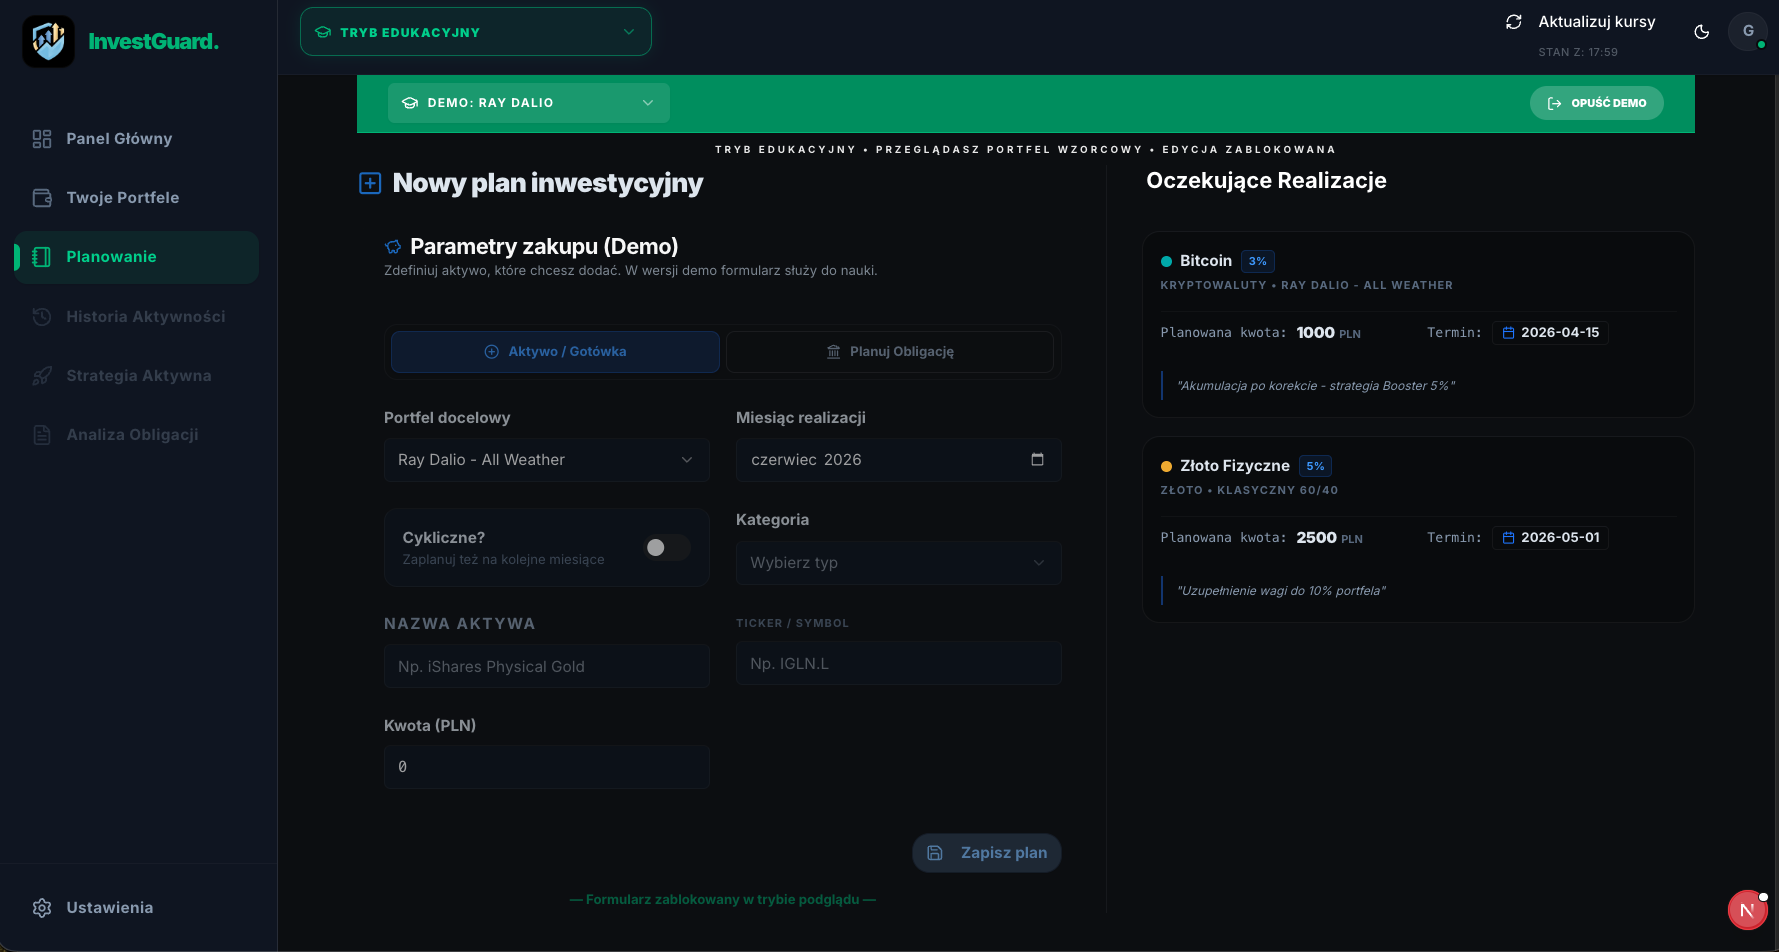
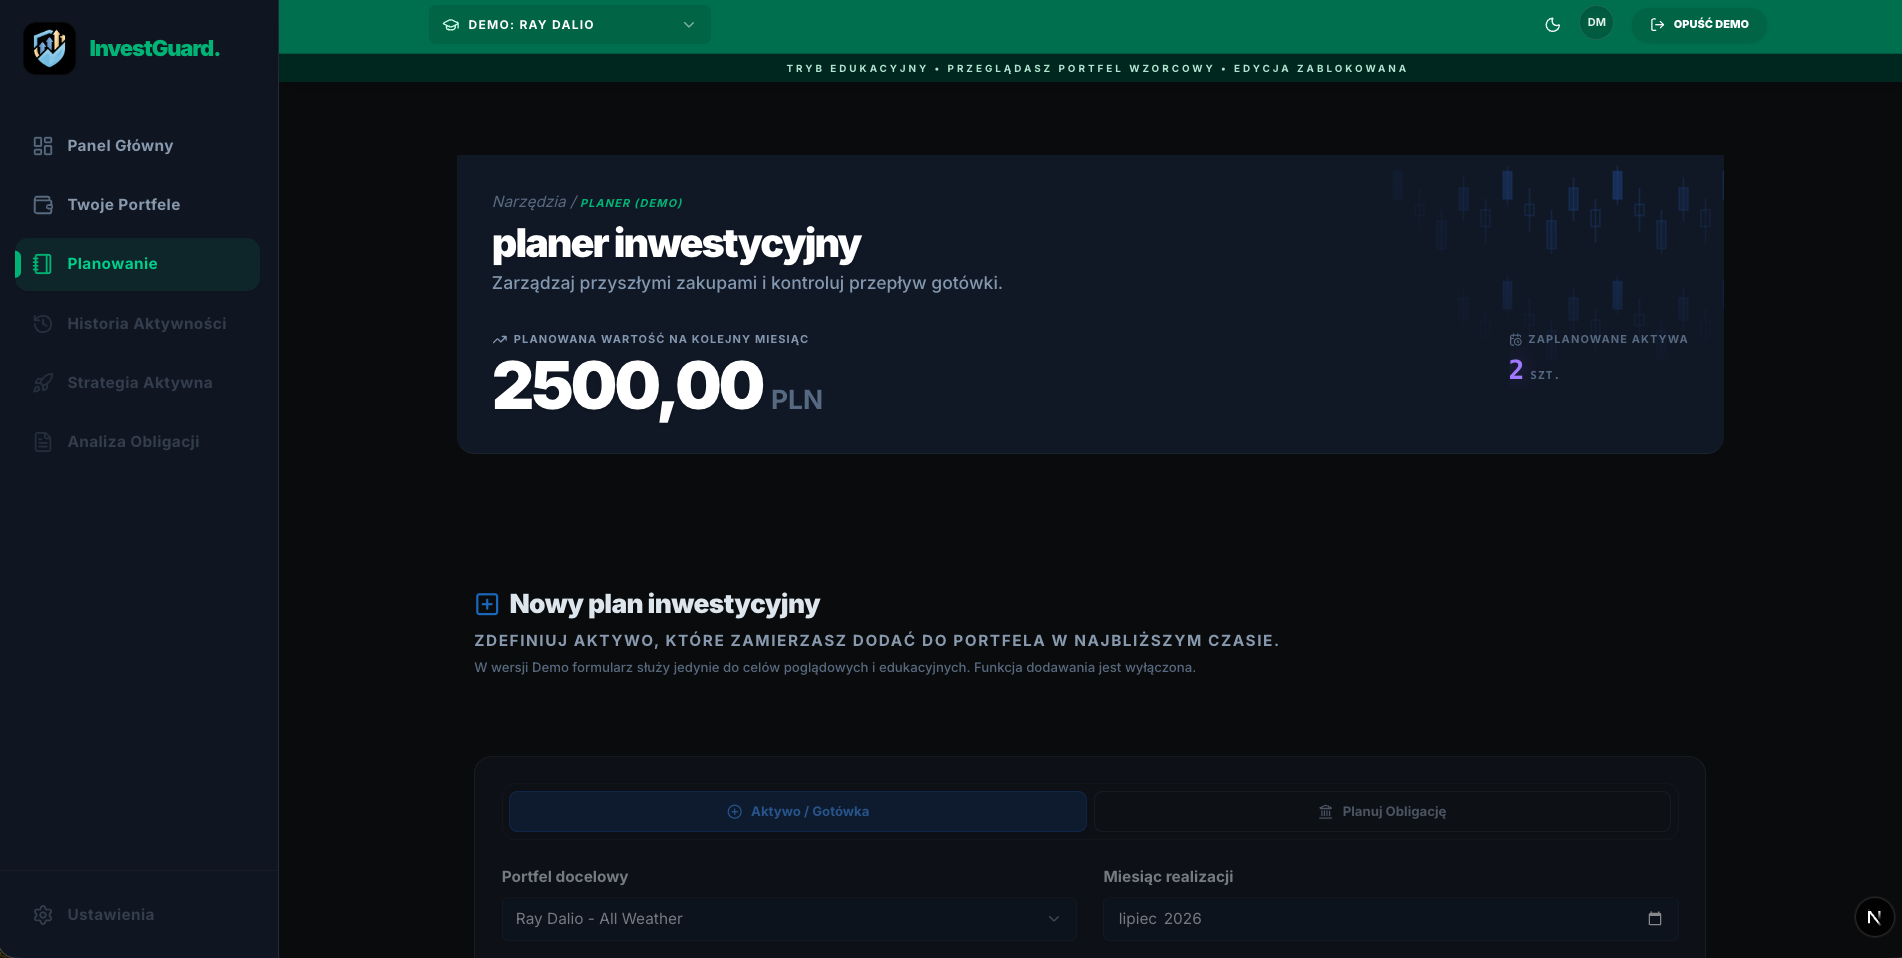
Add new images for InvestGuard project and remove outdated image

diff --git a/src/constants/index.ts b/src/constants/index.ts
@@ -57,7 +57,7 @@ export const projects: ProjectType[] = [
     id: 1,
     title: 'InvestGuard',
     images: [
-      './projects/investGuard12.png',
+      './projects/investGuard0.png',
       './projects/investGuard1.png',
       './projects/investGuard2.png',
       './projects/investGuard3.png',